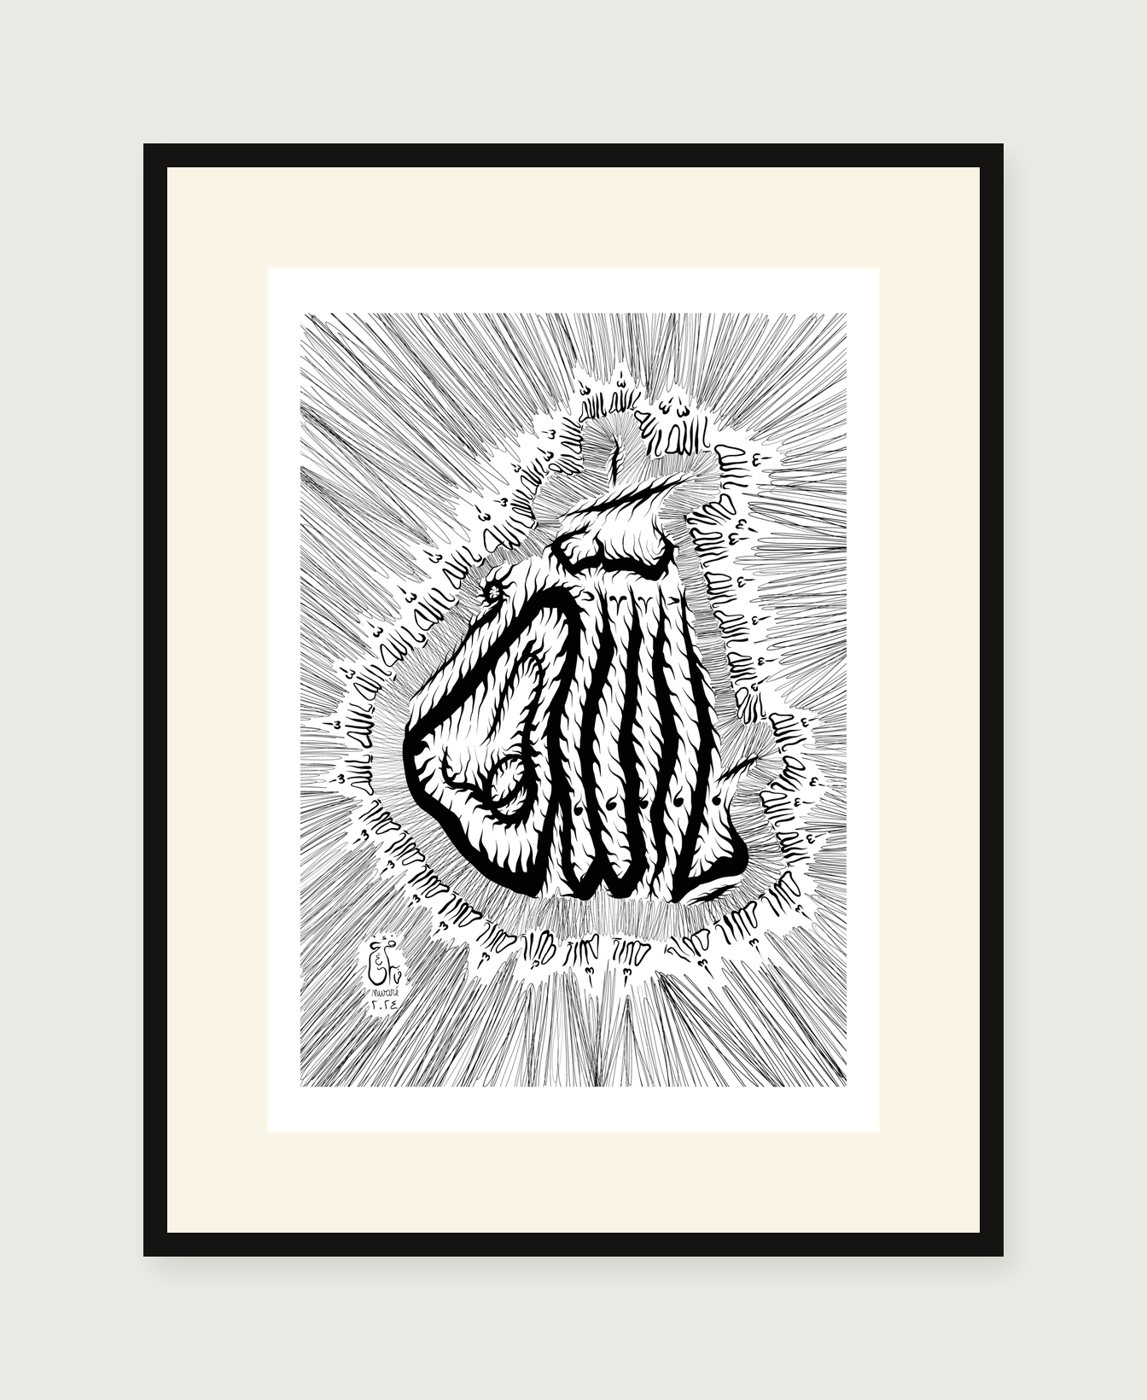
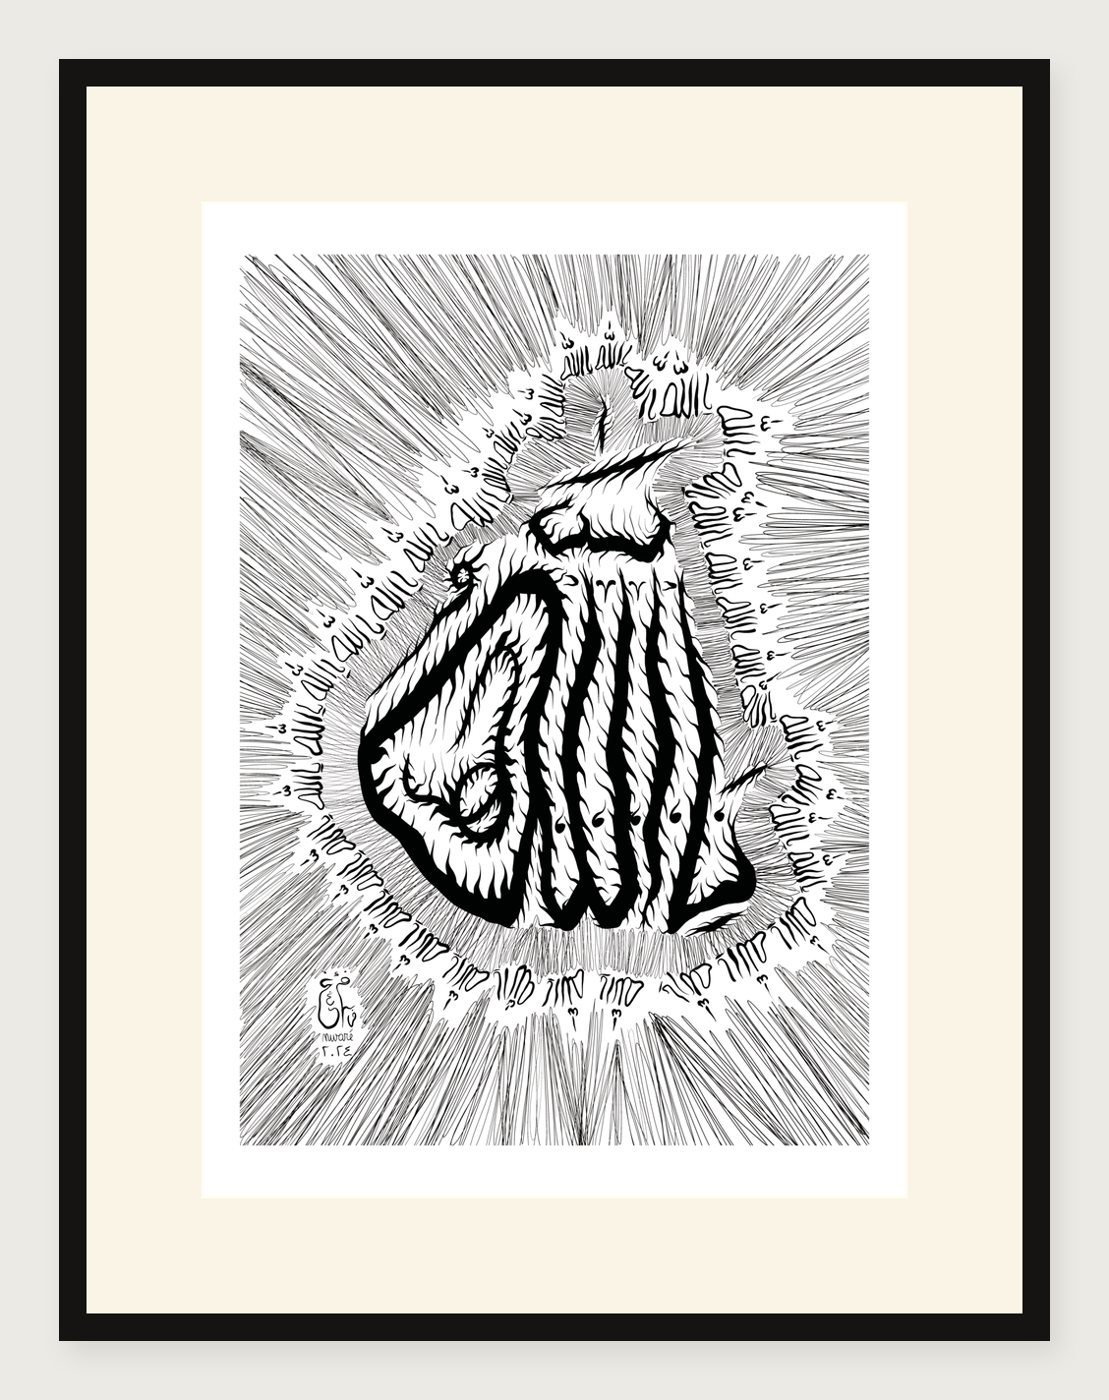
drawing keeps its size: pictures start as the poster at framed scale, framed only adds the frame

diff --git a/index.html b/index.html
@@ -92,7 +92,7 @@ footer{padding:40px 0 70px;text-align:center;font-size:12px;color:var(--mute);li
 .desc b{font-weight:700}
 figure.art{cursor:pointer}
 figure.art img{transition:opacity .15s}
-figure.art.mock{background:#EBEAE5}figure.art.mock img{padding:0}
+figure.art{background:#ECEAE5}figure.art img{padding:0!important}
 #bag{position:fixed;left:0;right:0;bottom:0;z-index:20;background:var(--ink);color:#fff;display:none}
 #bag.show{display:block}
 #bag .in{max-width:1200px;margin:0 auto;padding:14px 20px;display:flex;align-items:center;gap:14px}
@@ -187,7 +187,7 @@ body.bagged{padding-bottom:70px}
 
 
 
-<li class="row"><figure class="art" tabindex="0" role="button" aria-label="tap to switch between framed and poster" title="tap to switch between framed and poster"><img src="img/01_t3ebet_men_7ale.jpg" alt="tired of myself" loading="lazy"></figure>
+<li class="row"><figure class="art" tabindex="0" role="button" aria-label="tap to switch between framed and poster" title="tap to switch between framed and poster" data-src="img/01_t3ebet_men_7ale.jpg"><img src="img/view/01_t3ebet_men_7ale_poster.jpg" alt="tired of myself" loading="lazy"></figure>
   <div class="label"><span class="num">01</span>
     <h3 class="ar" lang="ar">تعبت من حالي</h3>
     <p class="en">tired of myself</p>
@@ -195,7 +195,7 @@ body.bagged{padding-bottom:70px}
     
     <div class="buy" data-id="01" data-title="tired of myself" data-u="30" data-f="55" data-series="7ale"><button type="button" data-kind="u" style="--c:#1EBE69"><i></i>poster, unframed <b>$30</b><em>add +</em></button><button type="button" data-kind="f" style="--c:#17150F"><i></i>framed, with passe-partout <b>$55</b><em>add +</em></button></div>
   </div></li>
-<li class="row"><figure class="art" tabindex="0" role="button" aria-label="tap to switch between framed and poster" title="tap to switch between framed and poster"><img src="img/02_shta2et_la_7ale.jpg" alt="i missed myself" loading="lazy"></figure>
+<li class="row"><figure class="art" tabindex="0" role="button" aria-label="tap to switch between framed and poster" title="tap to switch between framed and poster" data-src="img/02_shta2et_la_7ale.jpg"><img src="img/view/02_shta2et_la_7ale_poster.jpg" alt="i missed myself" loading="lazy"></figure>
   <div class="label"><span class="num">02</span>
     <h3 class="ar" lang="ar">اشتقت لحالي</h3>
     <p class="en">i missed myself</p>
@@ -203,7 +203,7 @@ body.bagged{padding-bottom:70px}
     
     <div class="buy" data-id="02" data-title="i missed myself" data-u="30" data-f="55" data-series="7ale"><button type="button" data-kind="u" style="--c:#1EBE69"><i></i>poster, unframed <b>$30</b><em>add +</em></button><button type="button" data-kind="f" style="--c:#17150F"><i></i>framed, with passe-partout <b>$55</b><em>add +</em></button></div>
   </div></li>
-<li class="row"><figure class="art" tabindex="0" role="button" aria-label="tap to switch between framed and poster" title="tap to switch between framed and poster"><img src="img/03_nbasatet_men_7ale.jpg" alt="pleased with myself" loading="lazy"></figure>
+<li class="row"><figure class="art" tabindex="0" role="button" aria-label="tap to switch between framed and poster" title="tap to switch between framed and poster" data-src="img/03_nbasatet_men_7ale.jpg"><img src="img/view/03_nbasatet_men_7ale_poster.jpg" alt="pleased with myself" loading="lazy"></figure>
   <div class="label"><span class="num">03</span>
     <h3 class="ar" lang="ar">انبسطت من حالي</h3>
     <p class="en">pleased with myself</p>
@@ -211,7 +211,7 @@ body.bagged{padding-bottom:70px}
     
     <div class="buy" data-id="03" data-title="pleased with myself" data-u="30" data-f="55" data-series="7ale"><button type="button" data-kind="u" style="--c:#1EBE69"><i></i>poster, unframed <b>$30</b><em>add +</em></button><button type="button" data-kind="f" style="--c:#17150F"><i></i>framed, with passe-partout <b>$55</b><em>add +</em></button></div>
   </div></li>
-<li class="row"><figure class="art" tabindex="0" role="button" aria-label="tap to switch between framed and poster" title="tap to switch between framed and poster"><img src="img/04_butterfly_earfly_1.jpg" alt="i wonder, can our voice be heard over the buzz of the drone?" loading="lazy"></figure>
+<li class="row"><figure class="art" tabindex="0" role="button" aria-label="tap to switch between framed and poster" title="tap to switch between framed and poster" data-src="img/04_butterfly_earfly_1.jpg"><img src="img/view/04_butterfly_earfly_1_poster.jpg" alt="i wonder, can our voice be heard over the buzz of the drone?" loading="lazy"></figure>
   <div class="label"><span class="num">04</span>
     <h3 class="ar" lang="ar">هل يا ترى صوتنا مسموع فوق صوت الزنّانة؟</h3>
     <p class="en">i wonder, can our voice be heard over the buzz of the drone?</p>
@@ -219,7 +219,7 @@ body.bagged{padding-bottom:70px}
     
     <div class="buy" data-id="04" data-title="i wonder, can our voice be heard over the buzz of the drone?" data-u="30" data-f="55" data-series=""><button type="button" data-kind="u" style="--c:#1EBE69"><i></i>poster, unframed <b>$30</b><em>add +</em></button><button type="button" data-kind="f" style="--c:#17150F"><i></i>framed, with passe-partout <b>$55</b><em>add +</em></button></div>
   </div></li>
-<li class="row"><figure class="art" tabindex="0" role="button" aria-label="tap to switch between framed and poster" title="tap to switch between framed and poster"><img src="img/05_butterfly_earfly_2.jpg" alt="our voice is heard over the buzz of the drone" loading="lazy"></figure>
+<li class="row"><figure class="art" tabindex="0" role="button" aria-label="tap to switch between framed and poster" title="tap to switch between framed and poster" data-src="img/05_butterfly_earfly_2.jpg"><img src="img/view/05_butterfly_earfly_2_poster.jpg" alt="our voice is heard over the buzz of the drone" loading="lazy"></figure>
   <div class="label"><span class="num">05</span>
     <h3 class="ar" lang="ar">صوتنا مسموع فوق صوت الزنّانة</h3>
     <p class="en">our voice is heard over the buzz of the drone</p>
@@ -227,7 +227,7 @@ body.bagged{padding-bottom:70px}
     
     <div class="buy" data-id="05" data-title="our voice is heard over the buzz of the drone" data-u="30" data-f="55" data-series=""><button type="button" data-kind="u" style="--c:#1EBE69"><i></i>poster, unframed <b>$30</b><em>add +</em></button><button type="button" data-kind="f" style="--c:#17150F"><i></i>framed, with passe-partout <b>$55</b><em>add +</em></button></div>
   </div></li>
-<li class="row"><figure class="art" tabindex="0" role="button" aria-label="tap to switch between framed and poster" title="tap to switch between framed and poster"><img src="img/06_allahou_akbar.jpg" alt="god is greater" loading="lazy"></figure>
+<li class="row"><figure class="art" tabindex="0" role="button" aria-label="tap to switch between framed and poster" title="tap to switch between framed and poster" data-src="img/06_allahou_akbar.jpg"><img src="img/view/06_allahou_akbar_poster.jpg" alt="god is greater" loading="lazy"></figure>
   <div class="label"><span class="num">06</span>
     <h3 class="ar" lang="ar">الله أكبر</h3>
     <p class="en">god is greater</p>
@@ -235,7 +235,7 @@ body.bagged{padding-bottom:70px}
     
     <div class="buy" data-id="06" data-title="god is greater" data-u="30" data-f="55" data-series=""><button type="button" data-kind="u" style="--c:#1EBE69"><i></i>poster, unframed <b>$30</b><em>add +</em></button><button type="button" data-kind="f" style="--c:#17150F"><i></i>framed, with passe-partout <b>$55</b><em>add +</em></button></div>
   </div></li>
-<li class="row"><figure class="art" tabindex="0" role="button" aria-label="tap to switch between framed and poster" title="tap to switch between framed and poster"><img src="img/07_qahr.jpg" alt="qahr" loading="lazy"></figure>
+<li class="row"><figure class="art" tabindex="0" role="button" aria-label="tap to switch between framed and poster" title="tap to switch between framed and poster" data-src="img/07_qahr.jpg"><img src="img/view/07_qahr_poster.jpg" alt="qahr" loading="lazy"></figure>
   <div class="label"><span class="num">07</span>
     <h3 class="ar" lang="ar">قهر</h3>
     <p class="en">qahr</p>
@@ -243,7 +243,7 @@ body.bagged{padding-bottom:70px}
     <p class="desc quote">“There is no English equivalent to the Arabic word qaher قهر. The dictionary says “anger” but it’s not. It is when you take anger, place it on a low fire, add injustice, oppression, racism, dehumanization to it, and leave it to cook slowly for a century. And then you try to say it but no one hears you. So it sits in your heart. And settles in your cells. And it becomes your genetic imprint. And then moves through generations. And one day, you find yourself unable to breathe. It washes over you and demands to break out of you. You weep. And the cycle repeats.”<br><br>as khadija muhaisen dajani described it.</p>
     <div class="buy" data-id="07" data-title="qahr" data-u="30" data-f="55" data-series=""><button type="button" data-kind="u" style="--c:#1EBE69"><i></i>poster, unframed <b>$30</b><em>add +</em></button><button type="button" data-kind="f" style="--c:#17150F"><i></i>framed, with passe-partout <b>$55</b><em>add +</em></button></div>
   </div></li>
-<li class="row"><figure class="art" tabindex="0" role="button" aria-label="tap to switch between framed and poster" title="tap to switch between framed and poster"><img src="img/08_ya_allah.jpg" alt="oh god" loading="lazy"></figure>
+<li class="row"><figure class="art" tabindex="0" role="button" aria-label="tap to switch between framed and poster" title="tap to switch between framed and poster" data-src="img/08_ya_allah.jpg"><img src="img/view/08_ya_allah_poster.jpg" alt="oh god" loading="lazy"></figure>
   <div class="label"><span class="num">08</span>
     <h3 class="ar" lang="ar">يا الله</h3>
     <p class="en">oh god</p>
@@ -251,7 +251,7 @@ body.bagged{padding-bottom:70px}
     
     <div class="buy" data-id="08" data-title="oh god" data-u="30" data-f="55" data-series=""><button type="button" data-kind="u" style="--c:#1EBE69"><i></i>poster, unframed <b>$30</b><em>add +</em></button><button type="button" data-kind="f" style="--c:#17150F"><i></i>framed, with passe-partout <b>$55</b><em>add +</em></button></div>
   </div></li>
-<li class="row"><figure class="art" tabindex="0" role="button" aria-label="tap to switch between framed and poster" title="tap to switch between framed and poster"><img src="img/09_falastine.jpg" alt="palestine" loading="lazy"></figure>
+<li class="row"><figure class="art" tabindex="0" role="button" aria-label="tap to switch between framed and poster" title="tap to switch between framed and poster" data-src="img/09_falastine.jpg"><img src="img/view/09_falastine_poster.jpg" alt="palestine" loading="lazy"></figure>
   <div class="label"><span class="num">09</span>
     <h3 class="ar" lang="ar">فلسطين</h3>
     <p class="en">palestine</p>
@@ -259,7 +259,7 @@ body.bagged{padding-bottom:70px}
     
     <div class="buy" data-id="09" data-title="palestine" data-u="30" data-f="55" data-series=""><button type="button" data-kind="u" style="--c:#1EBE69"><i></i>poster, unframed <b>$30</b><em>add +</em></button><button type="button" data-kind="f" style="--c:#17150F"><i></i>framed, with passe-partout <b>$55</b><em>add +</em></button></div>
   </div></li>
-<li class="row"><div class="figs"><figure class="art" tabindex="0" role="button" aria-label="tap to switch between framed and poster" title="tap to switch between framed and poster"><img src="img/10_enta_min_wel_nas_naymin.jpg" alt="collateral feelings" loading="lazy"></figure><figure class="photo"><img src="img/11_mural_painting.jpg" alt="nwaré painting the mural on the wall beirut" loading="lazy"><figcaption>nwaré painting the mural on the wall beirut, 2023</figcaption></figure></div>
+<li class="row"><div class="figs"><figure class="art" tabindex="0" role="button" aria-label="tap to switch between framed and poster" title="tap to switch between framed and poster" data-src="img/10_enta_min_wel_nas_naymin.jpg"><img src="img/view/10_enta_min_wel_nas_naymin_poster.jpg" alt="collateral feelings" loading="lazy"></figure><figure class="photo"><img src="img/11_mural_painting.jpg" alt="nwaré painting the mural on the wall beirut" loading="lazy"><figcaption>nwaré painting the mural on the wall beirut, 2023</figcaption></figure></div>
   <div class="label"><span class="num">10</span>
     <h3 class="ar" lang="ar">إنت مين والناس نايمين؟</h3>
     <p class="en">collateral feelings</p>
